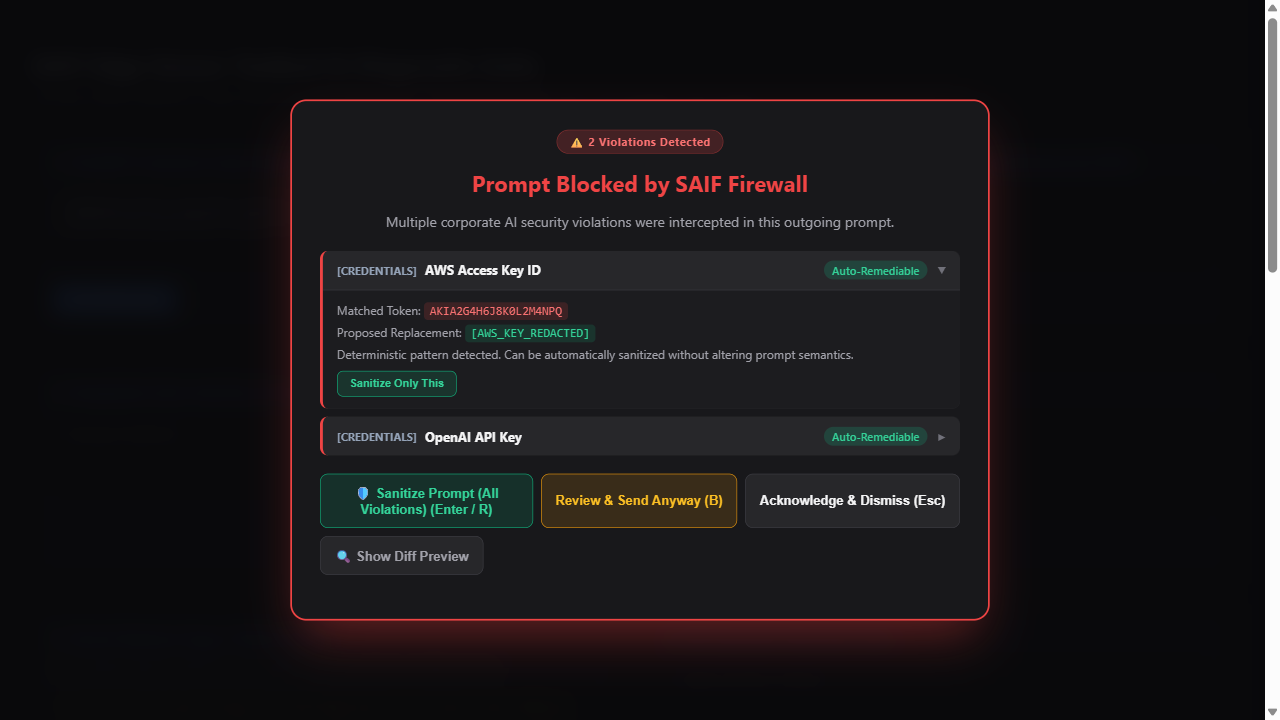
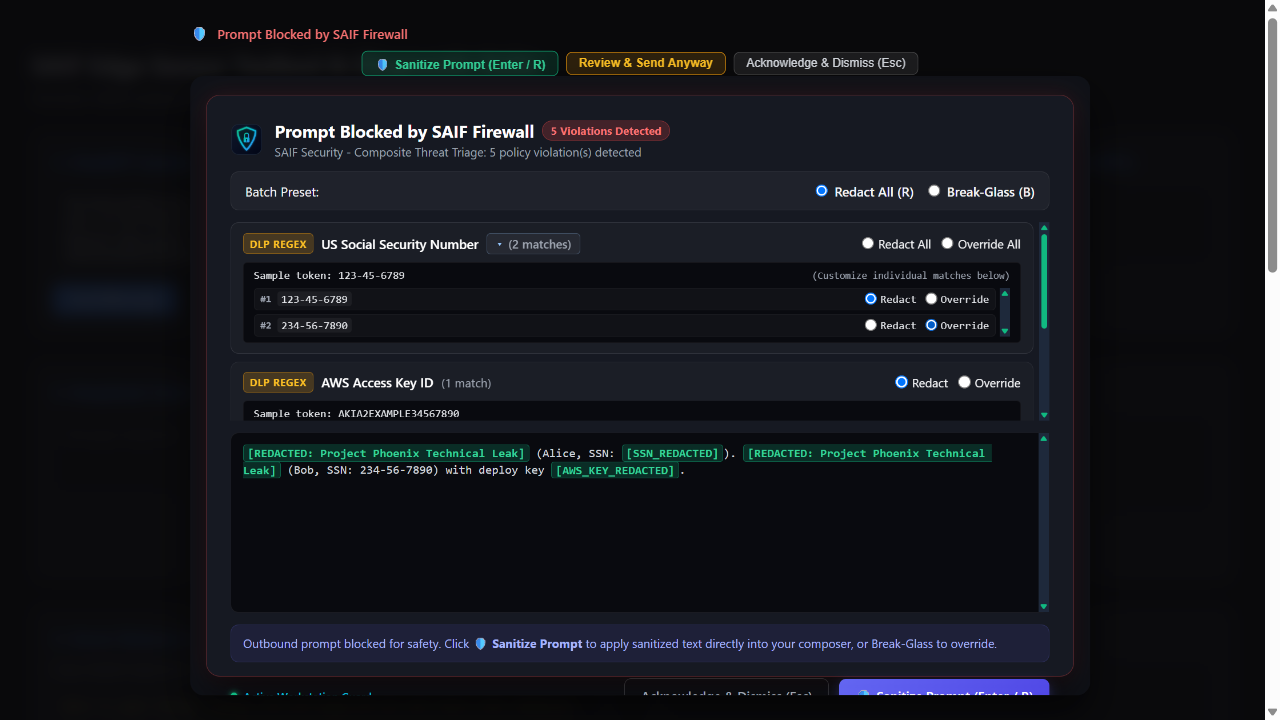
docs: synchronize high-resolution screenshots and item-level triage visuals

Changed region(s): [[0.1562, 0.0306, 0.8438, 0.9778]]

diff --git a/docs/OVERRIDES_AND_SNOOZE.md b/docs/OVERRIDES_AND_SNOOZE.md
@@ -40,6 +40,14 @@ Developers have four distinct options when a violation is flagged:
   <sub><em>(Desktop Triage Modal: Granular Accordion Controls & Live Diff Preview)</em></sub>
 </p>
 
+<p align="center">
+  <a href="screenshots/item_level_override_triage.png" title="Click to view full resolution">
+    <img src="screenshots/item_level_override_triage.png" alt="In-Browser Item-Level Override Triage with Live Diff Preview" width="680" style="max-width: 100%; border-radius: 8px; border: 1px solid #334155; box-shadow: 0 4px 16px rgba(0,0,0,0.35);" />
+  </a>
+  <br>
+  <sub><em>(In-Browser Item-Level Override Triage: Selective Token Exclusions & Real-Time Diff Preview)</em></sub>
+</p>
+
 ### How the Single-Trip Override Lease Works ("Hash and Burn")
 1. When you select **Break-Glass** or **Granular Item-Level Override**, SAIF generates an ephemeral, in-memory **`OverrideLease`** token bound to the specific prompt hash or session ID.
 2. In the browser extension, the lease is tracked simultaneously across the isolated content script (`inPageOverriddenPrompts`), the background service worker (`overrideLeases`), and the Main-World network interceptor (`overriddenPrompts`).

diff --git a/README.md b/README.md
@@ -75,7 +75,15 @@ Need to inspect individual occurrences or carve out specific tokens? Click any c
     <img src="docs/screenshots/desktop_triage_modal_accordion.png" alt="Accordion Expanded Triage Controls" width="680" style="max-width: 100%; border-radius: 8px; border: 1px solid #334155; box-shadow: 0 4px 16px rgba(0,0,0,0.35);" />
   </a>
   <br>
-  <sub><em>(Click image to view full resolution)</em></sub>
+  <sub><em>(Desktop Triage Modal: Granular Accordion Controls & Live Diff Preview)</em></sub>
+</p>
+
+<p align="center">
+  <a href="docs/screenshots/item_level_override_triage.png" title="Click to view full resolution">
+    <img src="docs/screenshots/item_level_override_triage.png" alt="In-Browser Item-Level Override Triage with Live Diff Preview" width="680" style="max-width: 100%; border-radius: 8px; border: 1px solid #334155; box-shadow: 0 4px 16px rgba(0,0,0,0.35);" />
+  </a>
+  <br>
+  <sub><em>(In-Browser Item-Level Override Triage: Selective Token Exclusions & Real-Time Diff Preview)</em></sub>
 </p>
 
 ### 4. Omnibox (Address Bar) Search Interception with Triage Parity
